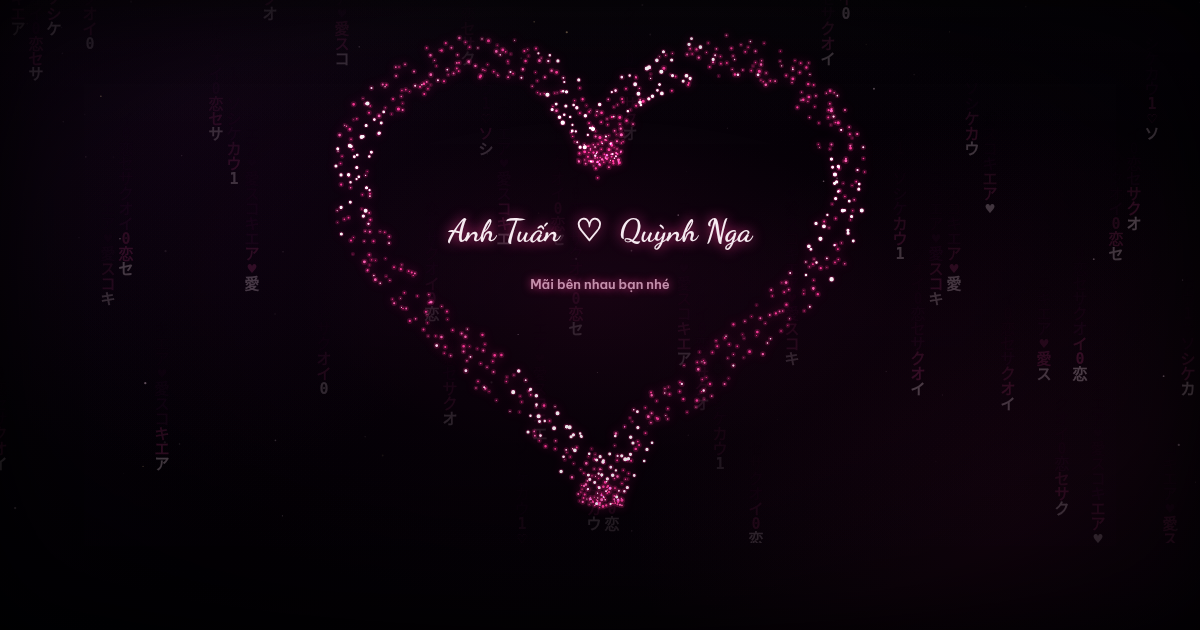
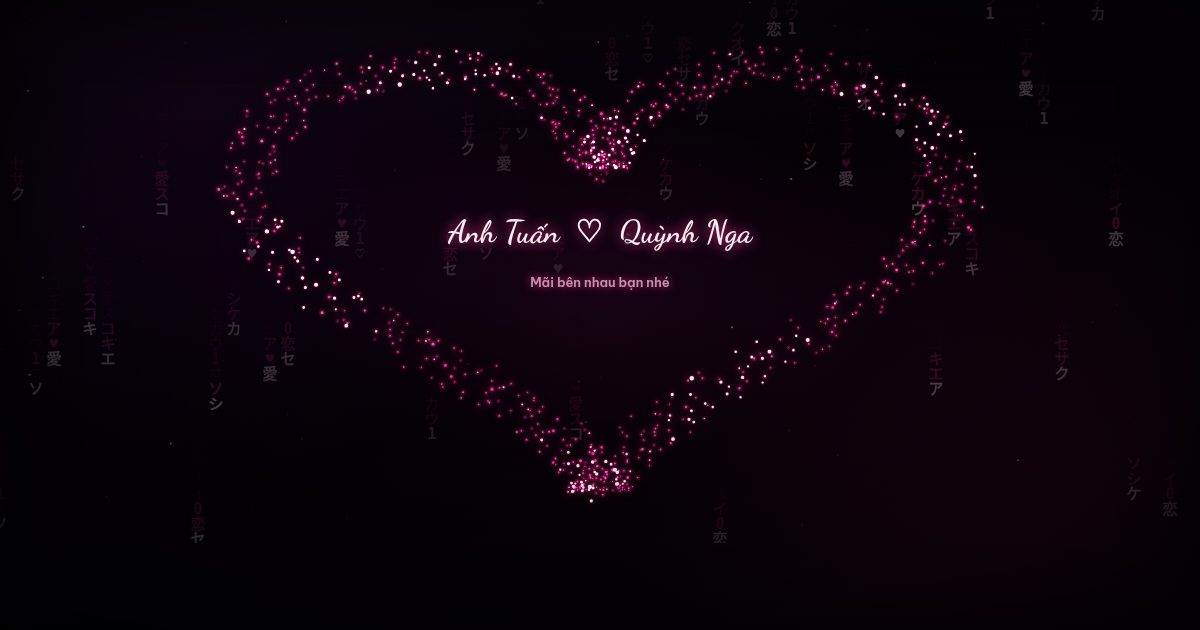
Widen final heart composition

diff --git a/script.js b/script.js
@@ -345,6 +345,8 @@ document.addEventListener('DOMContentLoaded', () => {
     const secondBeat = Math.exp(-Math.pow((age - 1510) / 125, 2)) * .045;
     const idleBeat = age > 1900 ? Math.sin(age / 520) * .008 : 0;
     const scale = Math.min(width / 42, height / 33) * .94 * (1 + firstBeat + secondBeat + idleBeat);
+    const scaleX = scale * 1.42;
+    const scaleY = scale * .94;
     const time = age * .001;
     const centerX = width / 2;
     const centerY = height / 2 - Math.min(20, height * .055);
@@ -367,8 +369,8 @@ document.addEventListener('DOMContentLoaded', () => {
       const normalY = currentPoint.ny + (nextPoint.ny - currentPoint.ny) * mix;
       const flowWave = Math.sin(particle.curvePosition * .26 - time * 3.2 + particle.lane * .55) * .14;
       const flowingThickness = particle.thickness + flowWave;
-      const targetX = centerX + (pointX + normalX * flowingThickness) * scale;
-      const targetY = centerY + (pointY + normalY * flowingThickness) * scale;
+      const targetX = centerX + (pointX + normalX * flowingThickness) * scaleX;
+      const targetY = centerY + (pointY + normalY * flowingThickness) * scaleY;
       const lightWave = Math.sin(curvePosition * .24 - time * 4.6 + particle.lane * .42);
       positions.push({
         particle,
@@ -430,7 +432,7 @@ document.addEventListener('DOMContentLoaded', () => {
       ctx.fillStyle = '#fff4fa';
       ctx.shadowColor = '#ff3b98';
       ctx.shadowBlur = 13;
-      ctx.fillText(CONFIG.finalMessage, centerX, centerY - scale * 1.2);
+      ctx.fillText(CONFIG.finalMessage, centerX, centerY - scaleY * 1.2);
       ctx.restore();
     }
 
@@ -444,7 +446,7 @@ document.addEventListener('DOMContentLoaded', () => {
       ctx.fillStyle = '#f3bdd9';
       ctx.shadowColor = '#ff3b98';
       ctx.shadowBlur = 8;
-      ctx.fillText(CONFIG.finalSubmessage, centerX, centerY + scale * 2.15);
+      ctx.fillText(CONFIG.finalSubmessage, centerX, centerY + scaleY * 2.15);
       ctx.restore();
     }
 
